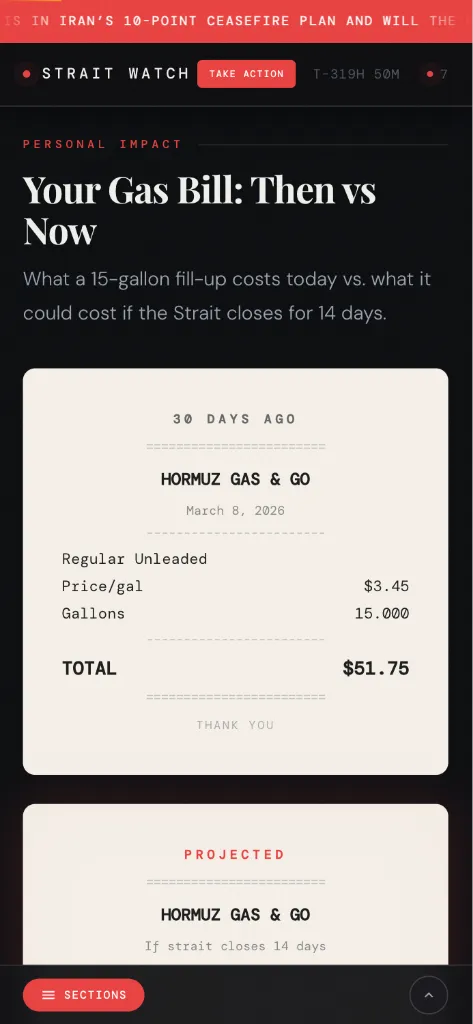
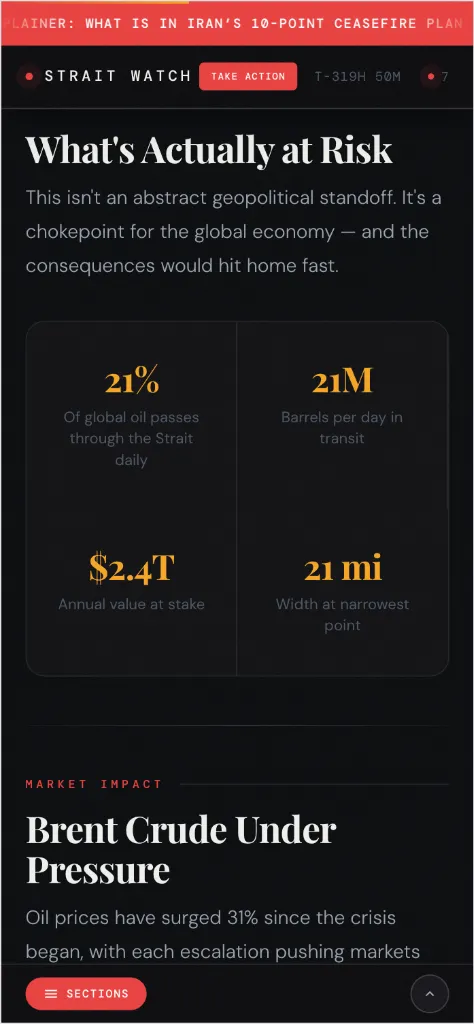
Fix velocity advantage post: correct timing, add thestraitwatch.com link, swap correct site screenshots

diff --git a/blog/the-velocity-advantage/index.html b/blog/the-velocity-advantage/index.html
@@ -126,9 +126,9 @@
             <!-- Post Body -->
             <div class="post-body">
 
-                <p>Last week, I had an idea at 9 PM. There was a news story breaking about the Strait of Hormuz — shipping lanes, geopolitical tension, global oil supply. My first thought wasn't <em>this is interesting</em>. It was: <strong>how fast could I deploy something useful about this?</strong></p>
+                <p>Yesterday, I had an idea around noon. There was a news story breaking about the Strait of Hormuz — shipping lanes, geopolitical tension, global oil supply. My first thought wasn't <em>this is interesting</em>. It was: <strong>how fast could I deploy something useful about this?</strong></p>
 
-                <p>By 9:50 PM, a fully interactive site — live data, ship tracking, oil price feeds, real-time news — was deployed and indexed. Fifty minutes from idea to production. By midnight the same night, 19,000 people had visited it.</p>
+                <p>By around 1 PM, a fully interactive site — live data, ship tracking, oil price feeds, real-time news — was deployed and indexed. Fifty minutes from idea to production. By that evening, 19,000 people had visited it.</p>
 
                 <p>That wasn't luck. It was a workflow.</p>
 
@@ -159,7 +159,7 @@
 
                 <p>AI agentic workflows break this equation. The constraint is no longer "how long does it take to build?" The constraint is now "how fast can you think?"</p>
 
-                <p>The Strait Watch project — that's what I called it — was a deliberate test. I wanted to see if I could turn a news moment into a live, interactive product before the traffic opportunity passed. This wasn't just a personal experiment: it was a proof-of-concept for the exact same workflows I use to build and iterate on GainFrame every week.</p>
+                <p><a href="https://thestraitwatch.com" target="_blank" rel="noopener">The Strait Watch project</a> — that's what I called it — was a deliberate test. I wanted to see if I could turn a news moment into a live, interactive product before the traffic opportunity passed. This wasn't just a personal experiment: it was a proof-of-concept for the exact same workflows I use to build and iterate on GainFrame every week.</p>
 
                 <hr class="post-divider">
 
@@ -183,16 +183,16 @@
                 <div class="post-inline-screenshot">
                     <figure>
                         <img src="assets/site-screenshot-1.webp"
-                            alt="Strait Watch site showing real-time ship tracking data and live news feed for the Strait of Hormuz">
-                        <figcaption>Live ship tracking and news feed — deployed in the first 50 minutes</figcaption>
+                            alt="Strait Watch site showing the Personal Impact section with a gas bill comparison — then vs projected cost if the Strait closes">
+                        <figcaption>"Your Gas Bill: Then vs Now" — one of the interactive sections showing real projected cost impact</figcaption>
                     </figure>
                 </div>
 
                 <div class="post-inline-screenshot">
                     <figure>
                         <img src="assets/site-screenshot-2.webp"
-                            alt="Strait Watch site showing oil price data and geopolitical context about the Strait of Hormuz">
-                        <figcaption>Oil price feeds and geopolitical context, all from public APIs. Total manual code written: under 50 lines.</figcaption>
+                            alt="Strait Watch site showing the What's Actually at Risk section with live stats — 21% of global oil, 21M barrels per day, $2.4T annual value">
+                        <figcaption>Live stats pulled from public APIs. Total manual code written: under 50 lines.</figcaption>
                     </figure>
                 </div>
 
